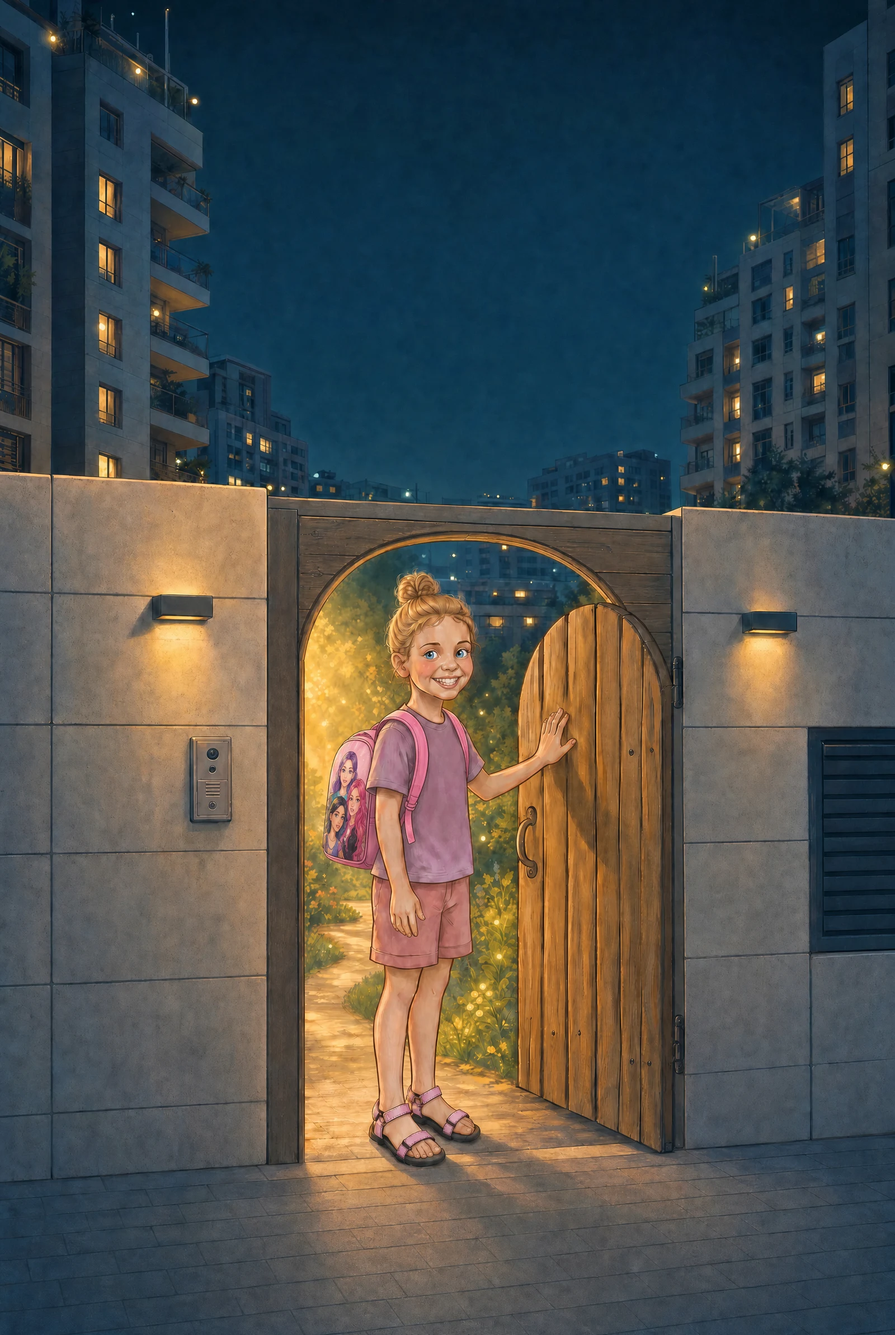
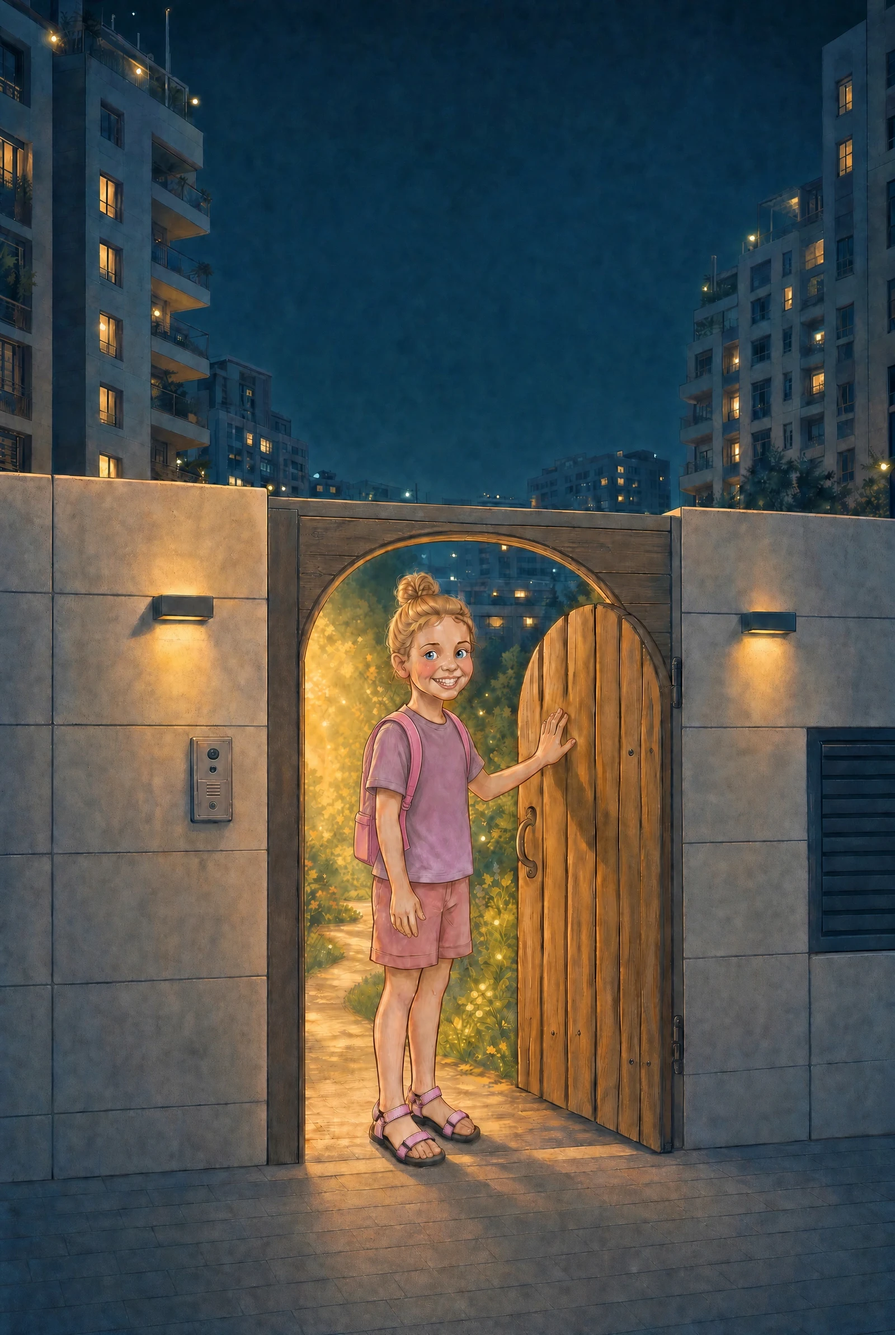
Correct backpack perspective and save three chapter art samples

diff --git a/site/index.html b/site/index.html
@@ -13,7 +13,7 @@
 <main class="reader" data-layout="art" aria-label="Shir’s Secret book">
   <div class="book" id="book">
     <section class="page cover is-active" id="cover" data-layout="art" aria-labelledby="book-title">
-      <img class="cover-art page-art" src="assets/cover-960.webp?v=6108494bda" srcset="assets/cover-480.webp?v=6108494bda 480w, assets/cover-960.webp?v=6108494bda 960w, assets/cover-1600.webp?v=6108494bda 1600w" sizes="(max-aspect-ratio: 1/1) 100vw, 67vh" alt="Shir opens a mysterious wooden gate in a modern city wall. Tall apartment buildings rise above, and a golden secret garden waits beyond." width="1696" height="2528" fetchpriority="high">
+      <img class="cover-art page-art" src="assets/cover-960.webp?v=72195c8ee1" srcset="assets/cover-480.webp?v=72195c8ee1 480w, assets/cover-960.webp?v=72195c8ee1 960w, assets/cover-1600.webp?v=72195c8ee1 1600w" sizes="(max-aspect-ratio: 1/1) 100vw, 67vh" alt="Shir opens a mysterious wooden gate in a modern city wall. Tall apartment buildings rise above, and a golden secret garden waits beyond." width="1696" height="2528" fetchpriority="high">
       <div class="cover-heading"><p class="eyebrow">A LITTLE READING. A LITTLE WONDER.</p><h1 id="book-title" tabindex="-1">Shir’s<br><em>Secret</em></h1><span class="star" aria-hidden="true">✦</span></div>
     </section>
     <section class="page contents" id="chapters" data-layout="index" aria-labelledby="chapter-title" aria-hidden="true" inert>

diff --git a/HANDOFF.md b/HANDOFF.md
@@ -111,3 +111,5 @@ Recovery succeeded after owner signed in: backpack reference completed in 73s (4
 Latest checkpoint: ComfyUI insufficient-credit dialog stopped pilot16; no output found. Page02/page12 drafts archived and saved in art/chapter1, not approved for release. Page02 exit correction workflow prepared in local ComfyUI list. Need fix page12 gaze/safe-area. Owner asked for periodic commits; checkpoint 04ea2e2 contains text/backpack corrections. Awaiting explicit $10 top-up authorization (skill disallows automatic purchase).
 
 Owner feedback is now recorded in the production reference and chapter art plan: independently check middle-view head proportions, and enforce backpack panel visibility by torso/camera angle. Cover/egg are explicit negative examples. Targeted correction workflows prepared; reference correction queued. Owner authorized and purchased $25 top-up (5,275 credits); no recurring purchase authorization.
+
+Latest selected samples: art/chapter1/page02.webp, page12.webp, page16.webp. All three generated and visually reviewed. Cover_Bag_Geometry and Reference_Head_Only installed as canonical; rejected Reference_Proportion shrank whole middle figure, archived only. Egg_Bag_Geometry fixes print visibility. User feedback retained in skill production reference. Hosted credit top-up $25 completed by explicit authorization. Remaining chapter art/integration not complete; no Pages deployment this session.

diff --git a/art/chapter1/plan.md b/art/chapter1/plan.md
@@ -41,3 +41,6 @@ Pages 02 and 12 first drafts generated and saved, not release-ready. Page 02 ret
 - Cover and first egg pilot both incorrectly showed a printed rear panel with a front-facing torso. Reject this geometry and correct it before release. Use these as explicit regression checks, not visual references to imitate.
 - Inspect spatial storytelling too: farewell must read as leaving home toward school, with Dad inside; garden discovery should direct Shir’s attention into the garden. Keep bottom control band free of feet and important objects.
 - Prompt reference roles precisely. A reference sheet defines identity and object construction, not a requirement to expose every identifying feature in every scene. Check occlusion before accepting output.
+
+## Corrected sample checkpoint
+Selected samples: page02.webp (leaving home; Dad face omitted), page12.webp (looking into luminous garden, feet clear of control band), page16.webp (egg reveal; backpack rear print correctly occluded). Production-agent reviewed; owner review ongoing. Original page02/page12 drafts retained as documented earlier alternatives, not release selections. No chapter deployment yet; remaining 13 illustrations and integration still pending.
